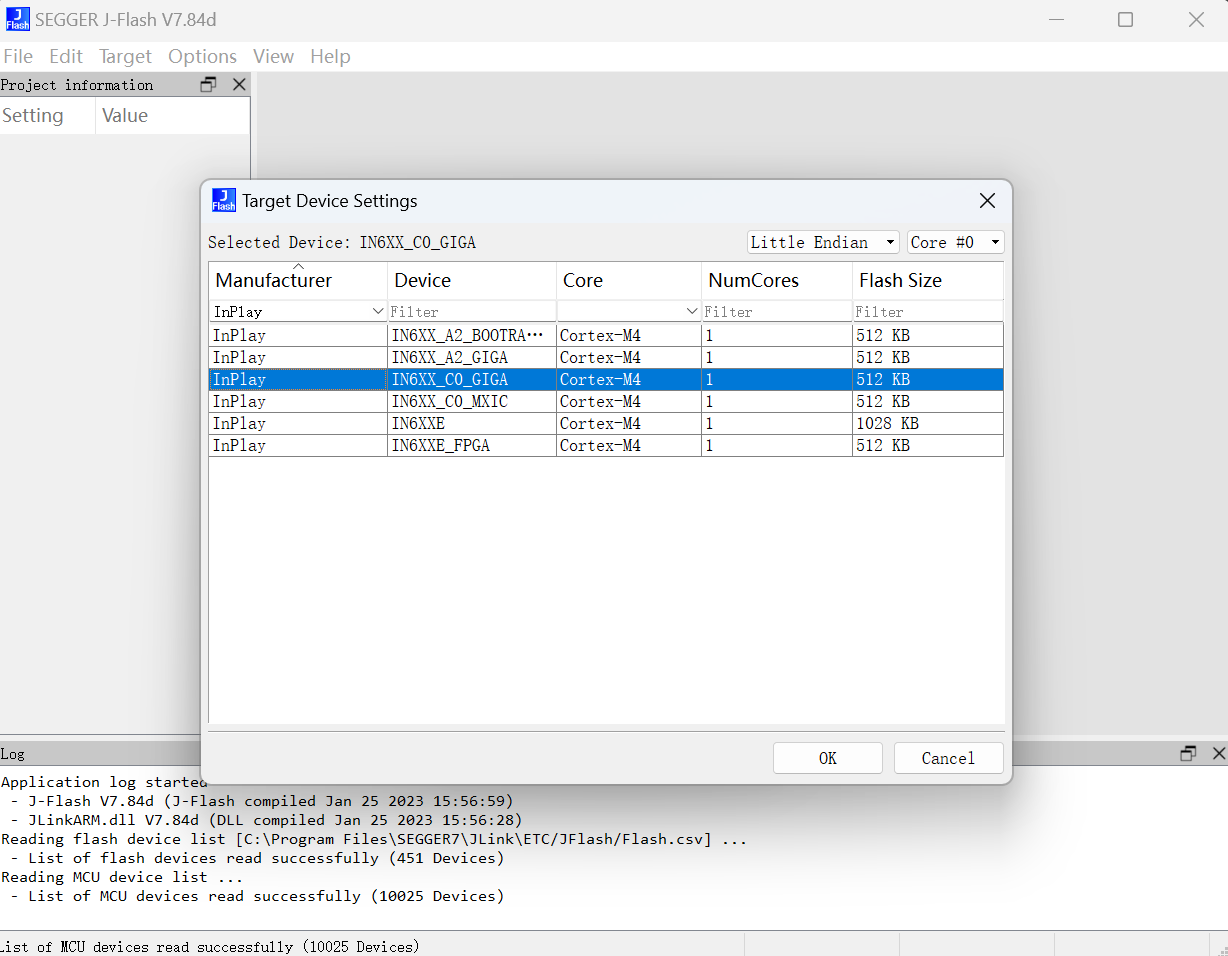
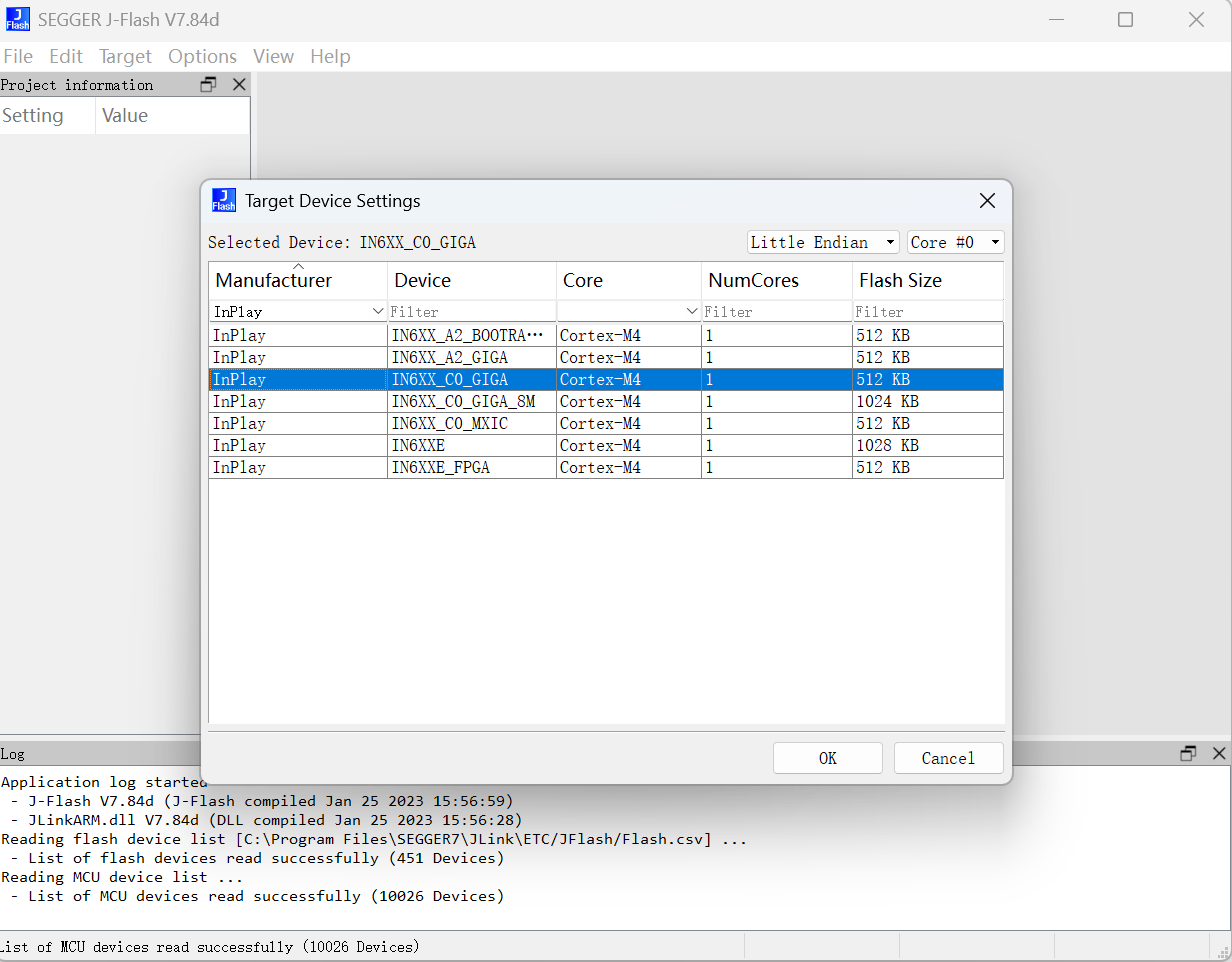
update for GIGA 8M

diff --git a/content/docs/IN6XX/Getting Started/Installation/Quick Start.md b/content/docs/IN6XX/Getting Started/Installation/Quick Start.md
@@ -44,8 +44,12 @@ If you encounter errors indicating that project files such as "hw\_ana" and "ble
 1. Connect JLink debugger to DK board. And power up DK board.
    
 2. Click "Project" menu in Keil, and select "Options for target"(or use shortcut key Alt+F7).
-3. Click "Device" tab, and select "IN6XXE" device under "InPlay Inc".
+3. Click "Device" tab, and select "IN612L" device under "InPlay Inc".
    ![](/images/c0-quickstart01.png)
+
+Note:
+	If chip is "IN610-Q32-R-G8C0I", select "IN610_G8C0I" device.
+	
 4. Click "Debug" tab, and select "J-Link" from the drop-down menu, as shown below:
    ![](/images/quickstart00.png)
 5. If a devices selection window pops up, select the "unspecified Cortex M4".  
@@ -65,6 +69,10 @@ If the J-Link is connected to the DK board and DK board is powered up, KEIL shou
 8. In the "Utilities" tab, click  "Settings". If the Keil Pack is installed, configuration will be done automatically as follows.
    ![](/images/c0-quickstart02.png) 
    If Keil is not configured properly, please manually add the "IN602C0 GD25WD40C SPI FLASH "flm file by click "Add" button. Then set start addres to 0x210000 and set size to 0x1000.
+
+Note:
+	If chip is "IN610-Q32-R-G8C0I", flm file is "IN602C0 GD25WD80C SPI FLASH".
+
 9.  Click "OK" to apply changes.
 
 10. Click "download" button to download image file to DK board.

diff --git a/content/docs/IN6XX/Getting Started/Download/JFlash Download Guide.md b/content/docs/IN6XX/Getting Started/Download/JFlash Download Guide.md
@@ -37,12 +37,15 @@ J-Flash is a part of the J-Link tool series developed by Segger, offers a reliab
 - Select the target device
 ![](/images/jflash2.png)
 
-- Select InPlay IN6XX_C0_GIGA device
+- Select InPlay "IN6XX_C0_GIGA" device
 ![](/images/c0-jflash1.png)
+
+Note:
+	If chip is "IN610-Q32-R-G8C0I", select "IN6XX_C0_GIGA_8M" device.
 
 - Open the Bin file
 
-Click the file menu, select “Open data file”, and select the Bin file to be downloaded.
+Click the file menu, select "Open data file", and select the Bin file to be downloaded.
 ![](/images/jflash4.png)
 
 - Set start address
